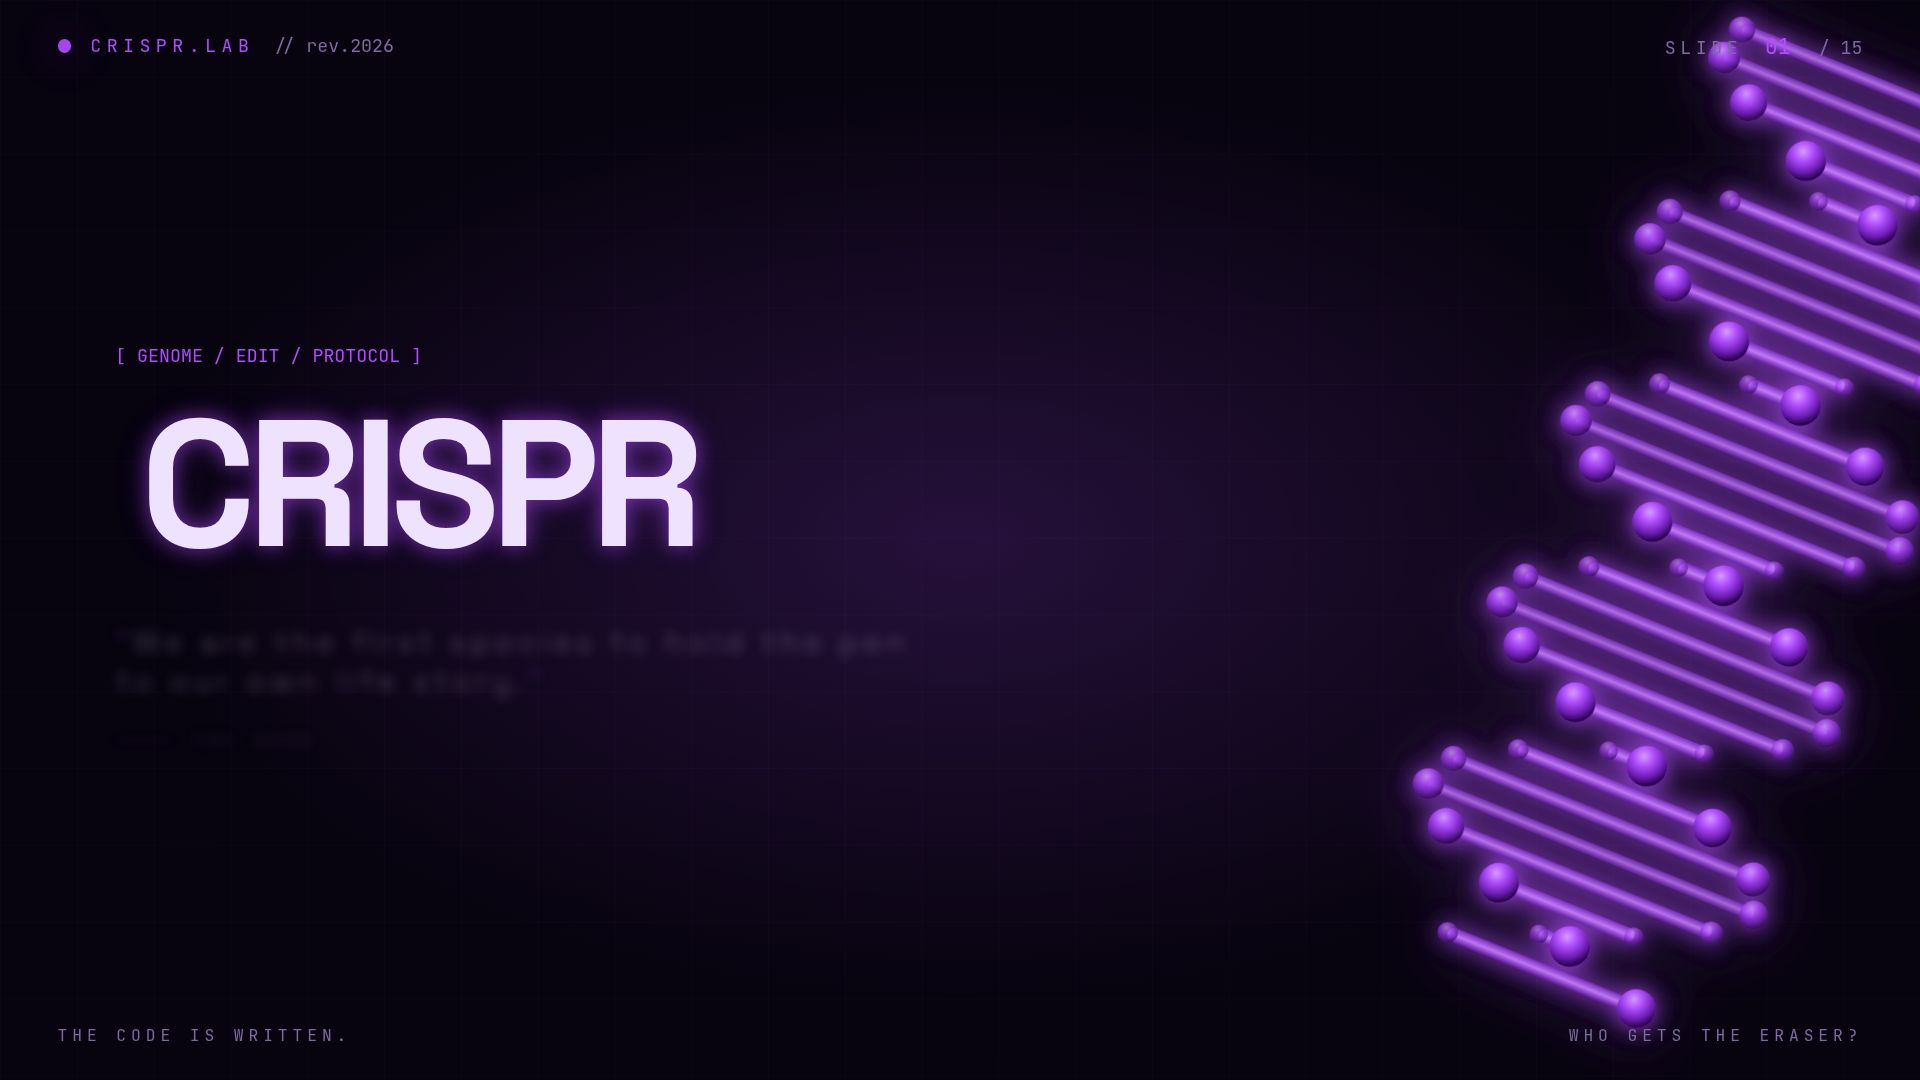
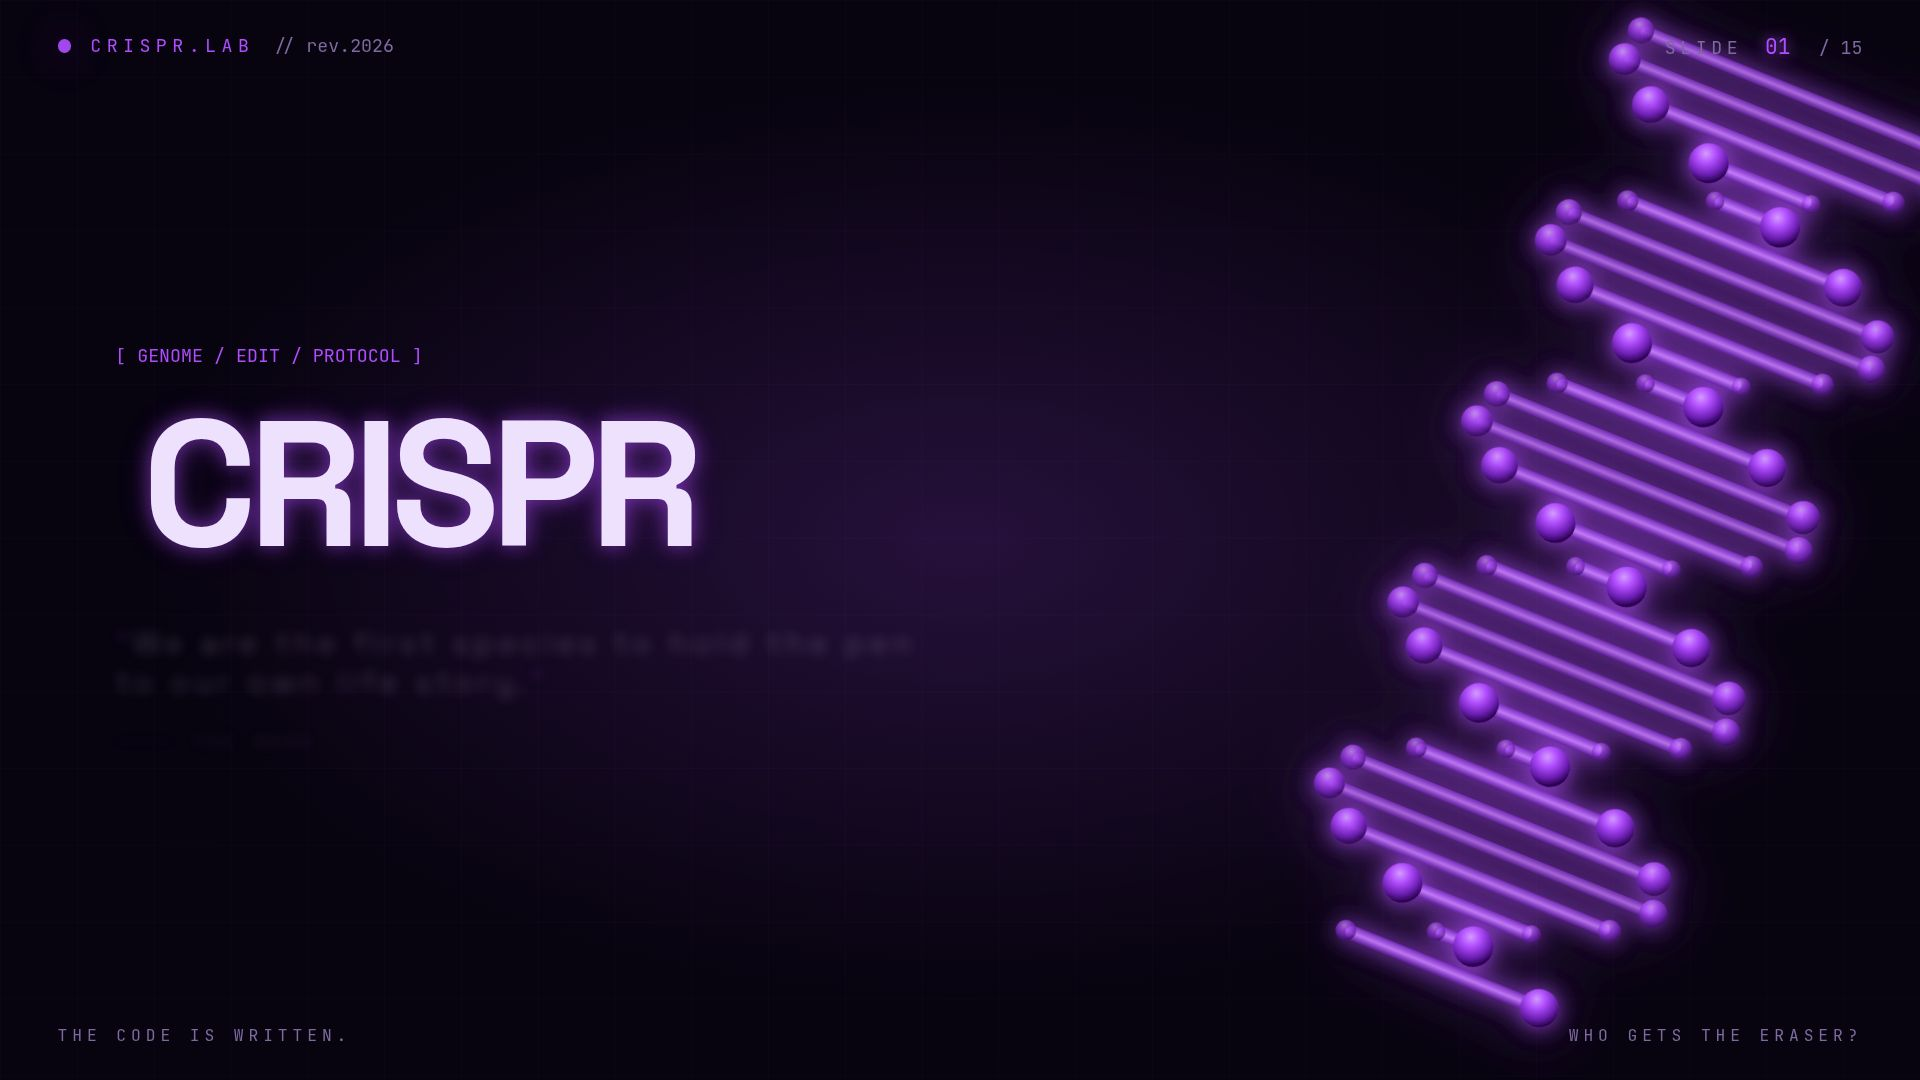
Adjust DNA helix position on the first slide further left
Shift the DNA helix component 100px further left by modifying the CSS right offset calculation in Slide01Title.tsx.

Replit-Commit-Author: Agent
Replit-Commit-Session-Id: 3b18fbcb-9325-42a6-a823-950d40ee5492
Replit-Commit-Checkpoint-Type: full_checkpoint
Replit-Commit-Event-Id: f7d2f427-b738-46e2-8e4a-b64180279e3b
Replit-Commit-Screenshot-Url: https://storage.googleapis.com/screenshot-production-us-central1/f14ca61b-bc6a-46a7-8720-46ccaebc6cad/3b18fbcb-9325-42a6-a823-950d40ee5492/oonyGsO
Replit-Helium-Checkpoint-Created: true

Changed region(s): [[0.6562, 0.0, 1.0, 0.9778], [0.1875, 0.4583, 0.2188, 0.4889], [0.1875, 0.3056, 0.2188, 0.3361]]

diff --git a/artifacts/crispr-deck/src/pages/slides/Slide01Title.tsx b/artifacts/crispr-deck/src/pages/slides/Slide01Title.tsx
@@ -130,7 +130,7 @@ export default function Slide01Title() {
       <div
         className="absolute top-1/2 w-[40vw] h-[130vh] pointer-events-none"
         style={{
-          right: "calc(-12vw + 50px)",
+          right: "calc(-12vw + 150px)",
           transform: "translateY(-50%) rotate(22deg)",
           transformOrigin: "50% 50%",
         }}
